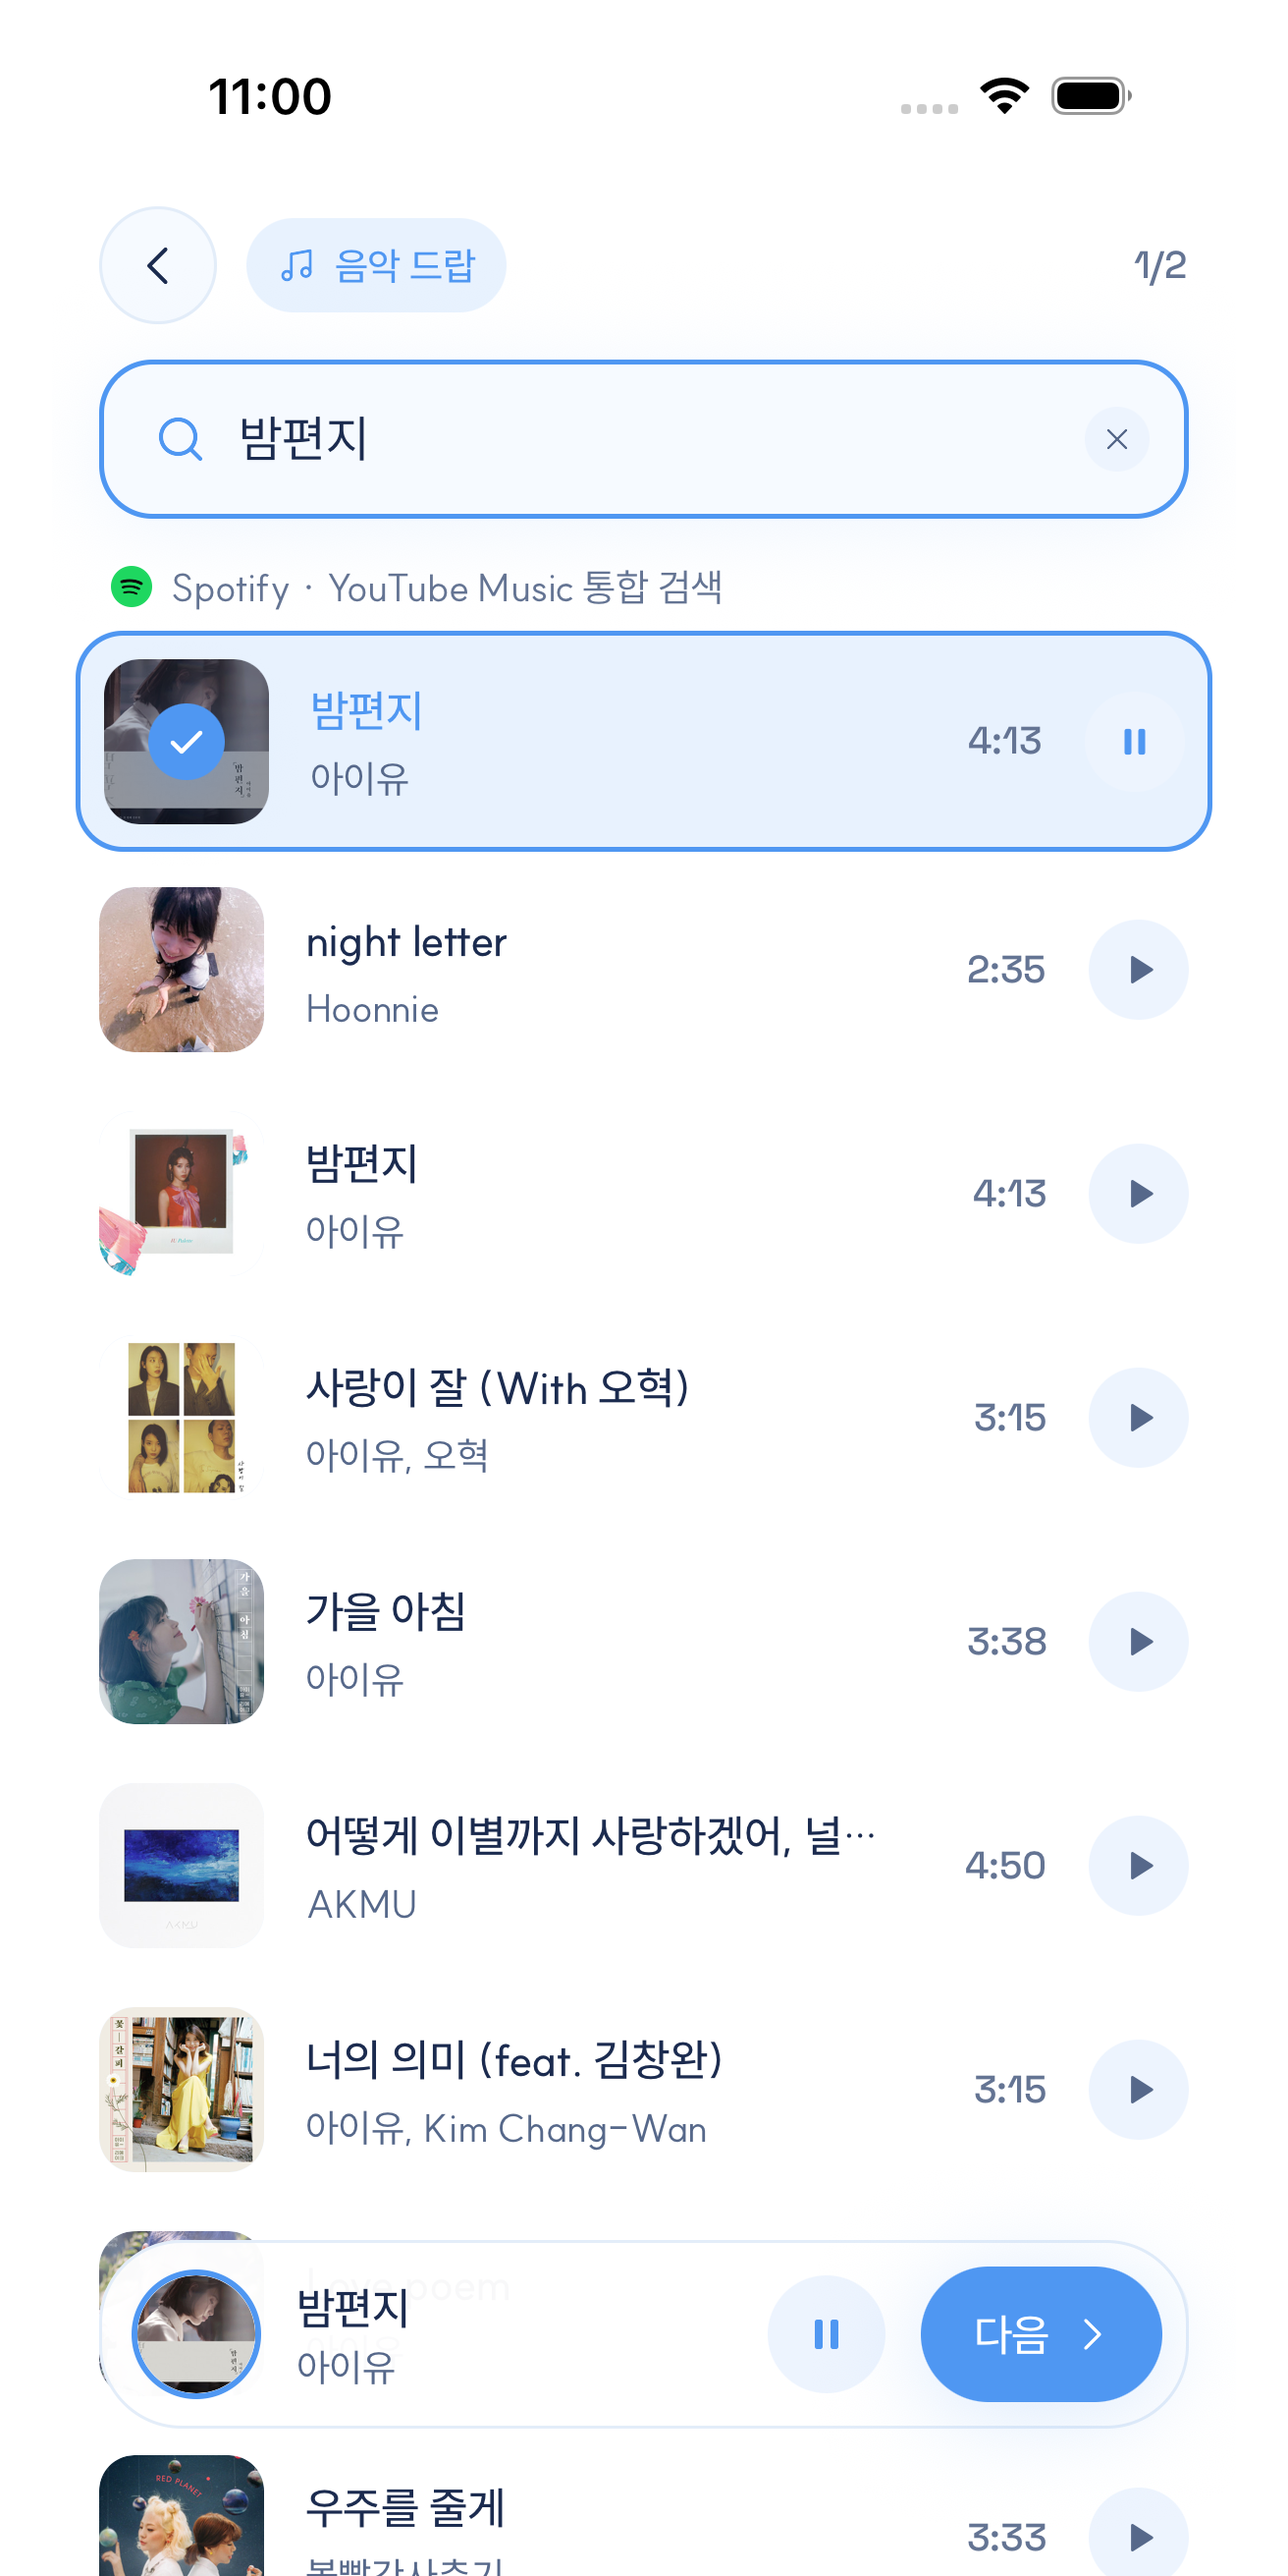
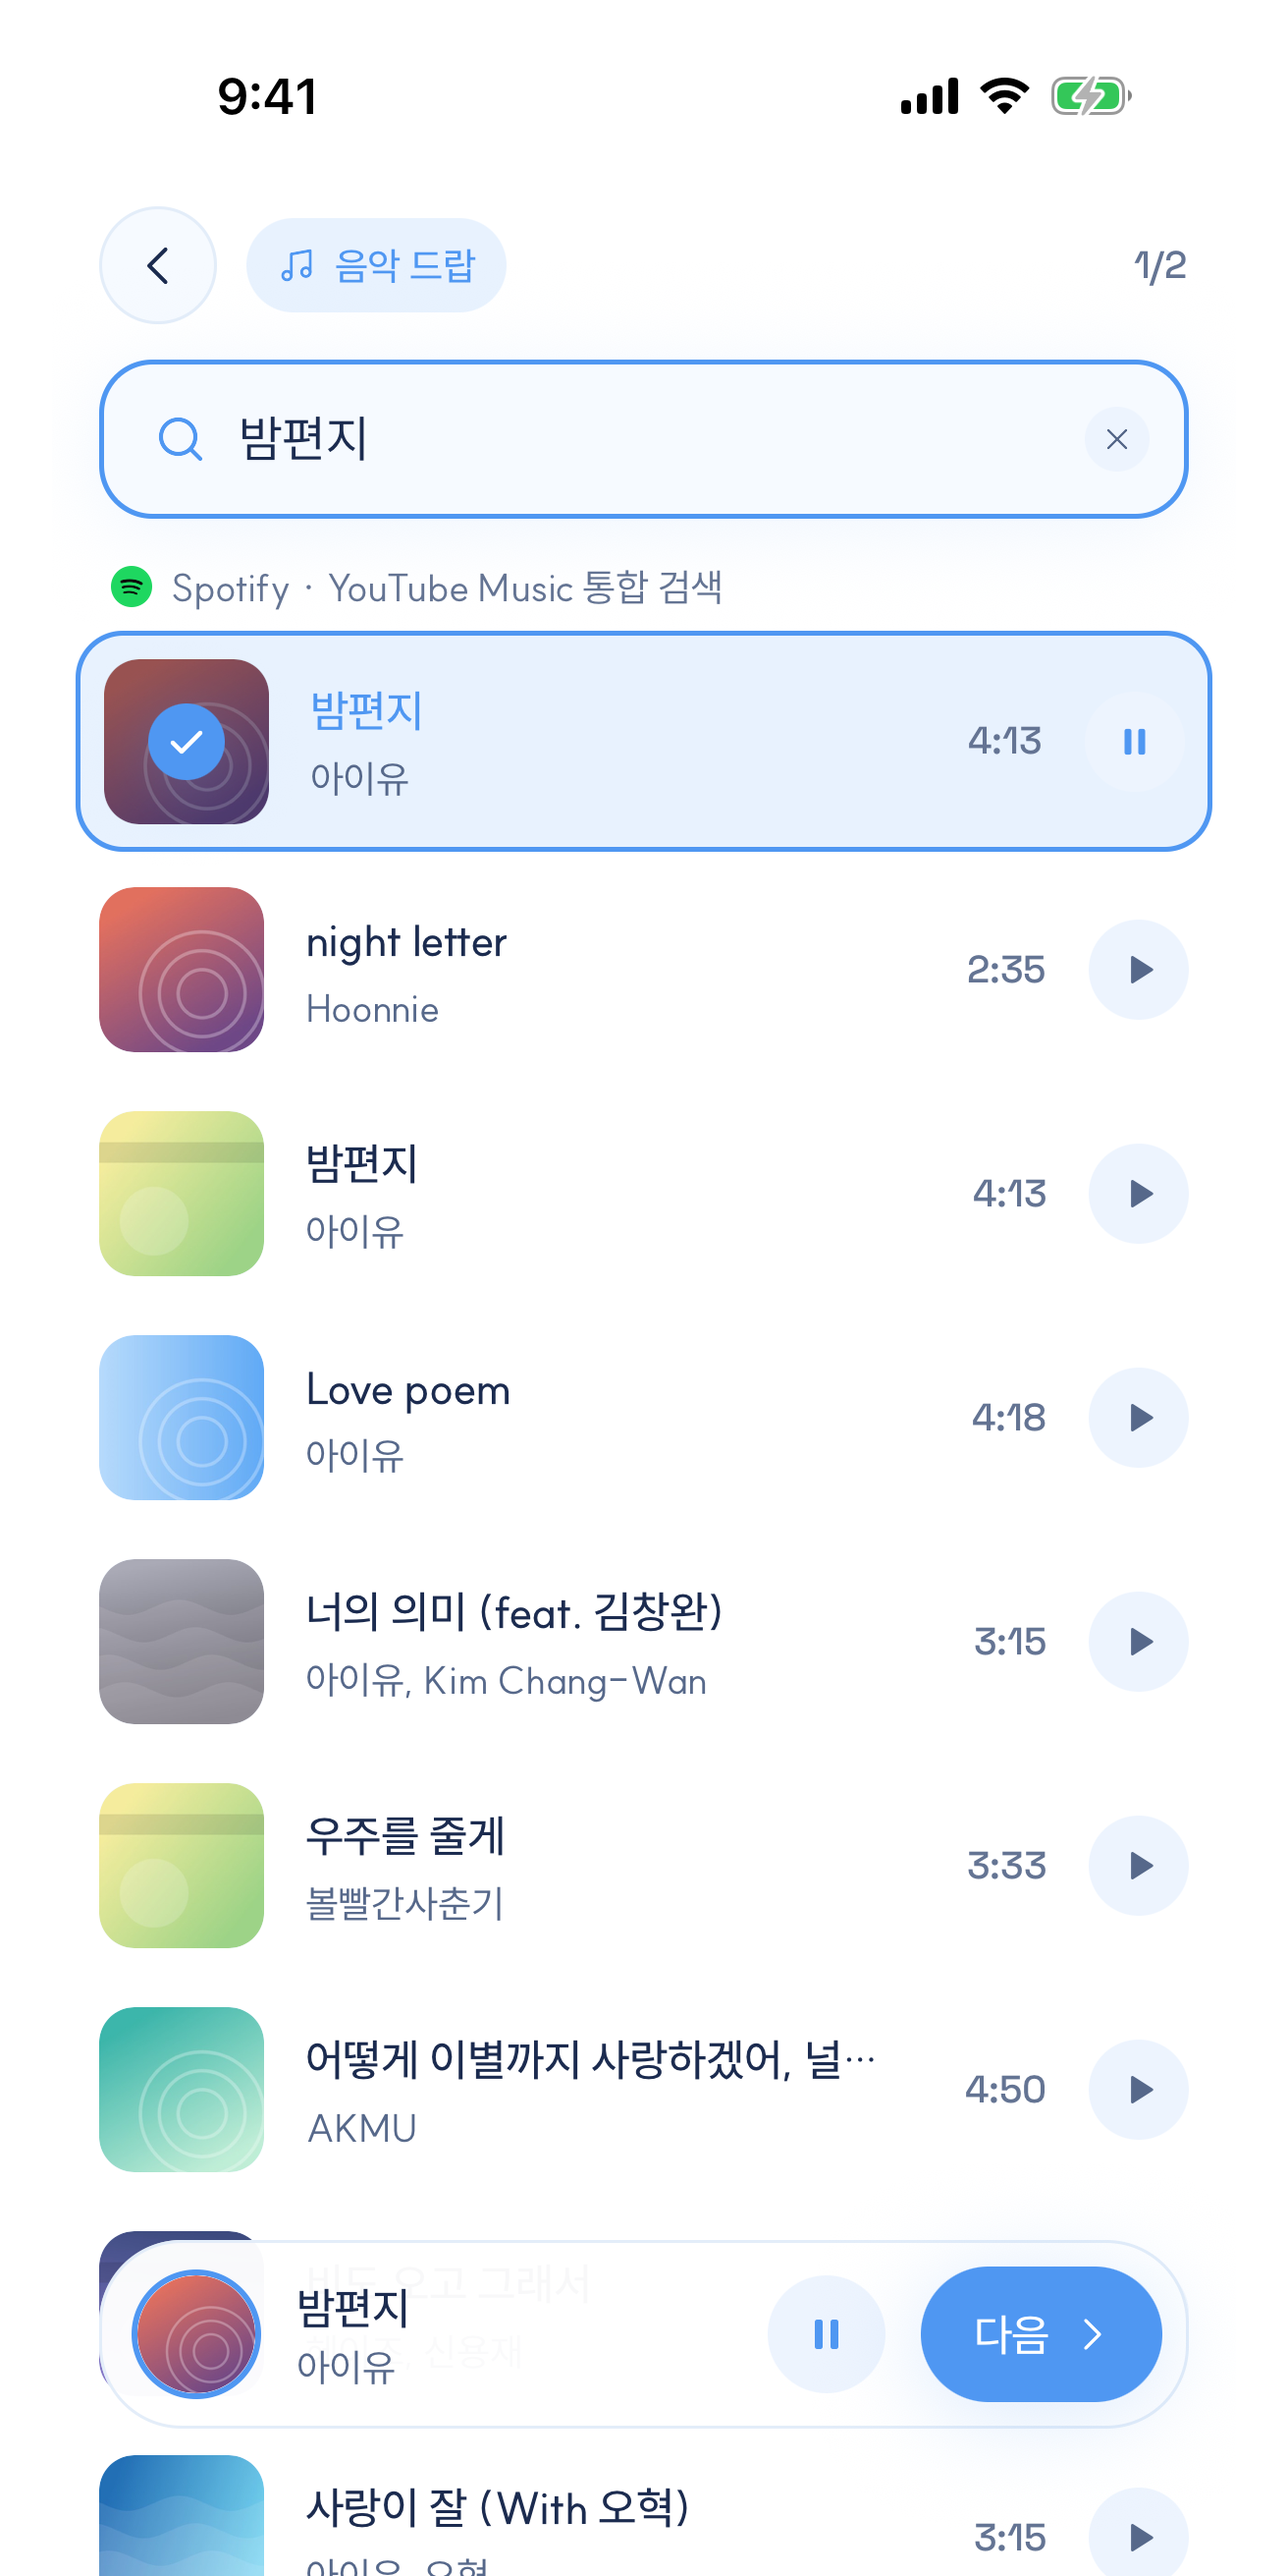
chore :: Play 출시 준비 (Android 패키지 com.paado.app, 스토어 스크린샷 교체, 제출 점검표)
- applicationId를 com.paado.app으로 변경 (com.pado.app은 다른 개발자가 사용 중). namespace는 com.pado.app 유지
- Play 스크린샷을 iOS 재심사용 가상 커버 장면으로 교체, 2:1 비율에 맞춰 좌우 여백
- store/play/submission-checklist.md: 콘솔 입력값, 데이터 보안, 등록한 OAuth·지도·카카오 키

diff --git a/store/play/submission-checklist.md b/store/play/submission-checklist.md
@@ -1,0 +1,191 @@
+# Google Play 첫 제출 점검표
+
+2026-10-28 기준입니다. Play Console 계정은 craftsmanship001(개인 계정, ID 8155530778794944269)이고, 앱 **파도 - PAADO**(패키지 `com.paado.app`, 앱 ID 4975668271305079182)를 만들었습니다.
+
+> `com.pado.app`은 이미 다른 개발자가 쓰고 있어 Android 패키지(applicationId)를 `com.paado.app`으로 바꿨습니다. Java 패키지(namespace)는 `com.pado.app` 그대로라 CI의 BuildConfig 경로는 바뀌지 않습니다.
+
+## 1. 지금 막혀 있는 것 (직접 해야 함)
+
+1~3번은 끝났습니다 (전화번호·기기 인증, 앱 만들기).
+
+| 순서 | 할 일 | 어디서 |
+|---|---|---|
+| 1 | **연락처 전화번호 인증** (조치 필요) | Play Console 홈 → "세부정보 보기" → 문자 인증 |
+| 2 | **Android 기기 액세스 확인** (조치 필요) | 실제 Android 폰에 Play Console 앱 설치 → 같은 계정으로 로그인 |
+| 3 | **앱 만들기** | 이름·언어·무료 입력, 정책 동의 체크 2개 (동의는 직접) |
+| 4 | **심사용 계정 만들기** | 실서버(api.paado.app)에 이메일 계정 1개 → "앱 액세스"에 아이디·비밀번호 입력 |
+
+### 개인 계정 조건: 비공개 테스트 14일
+
+2023-11-13 이후에 만든 개인 계정은 바로 프로덕션에 낼 수 없습니다.
+
+- 비공개 테스트에 **테스터 12명 이상이 14일 연속** 참여해야 "프로덕션 액세스 신청"이 열립니다.
+- 그래서 처음 내는 심사는 **비공개 테스트 트랙 심사**입니다.
+- 일정은 대략 이렇습니다.
+  1. 비공개 테스트 심사 (보통 며칠)
+  2. 14일 테스트
+  3. 프로덕션 액세스 신청 심사 (최대 7일 정도)
+  4. 프로덕션 심사
+- 테스터는 Google 계정 이메일 목록이나 Google 그룹으로 초대합니다. 12명을 미리 모아 두세요.
+
+## 2. 준비된 것
+
+### 업로드 파일: 패키지 변경 뒤 CI가 만드는 AAB (GitHub Release `build-<번호>`)
+
+`build-10`(`com.pado.app`)은 패키지가 달라 업로드할 수 없습니다. 아래 확인은 build-10 기준이고, 서명·SDK·권한은 새 빌드도 같습니다.
+
+| 항목 | 확인 결과 |
+|---|---|
+| 패키지 | `com.paado.app` |
+| 버전 | 1.0 (versionCode 10) |
+| 서명 | 업로드 키(`~/.pado/pado-upload.jks`), SHA-1 `00:E9:29:BA:…:6C:B7` 일치 |
+| 대상 SDK | targetSdk 36 (Android 16). 2026-08-31부터 새 앱에 필요한 수준 |
+| 서버 설정 | 실서버, CI가 목 모드 아님을 검사 |
+| 민감 권한 | 위치(포그라운드만), 미디어 재생 포그라운드 서비스만 해당. 백그라운드 위치·사진 권한(READ_MEDIA_*)·광고 ID 없음 |
+
+**주의할 점이 하나 있습니다.** 이 빌드에는 비밀번호 재설정이 들어 있습니다. AWS SES 프로덕션 승인이 안 났다면 인증 메일이 나가지 않습니다. Play 심사관이 이 기능을 눌러볼 가능성은 낮지만, 제출 전에 백엔드에 SES 상태를 확인하는 게 좋습니다.
+
+### 스토어 이미지 (`store/play/`)
+
+| 자산 | 상태 |
+|---|---|
+| 앱 아이콘 `icon-512.png` | 512×512, iOS 아이콘과 같음 |
+| 그래픽 이미지 `feature-graphic.png` | 1024×500. 예전 다크 톤이지만 아이콘과 어울려서 그대로 써도 됩니다 |
+| 휴대전화 스크린샷 `screenshots/` 8장 | **오늘 교체.** 실제 앨범 커버가 들어간 예전 장면을 iOS 재심사용 새 스크린샷(자체 제작 추상 아트)으로 바꿨습니다. Play 비율 한도(2:1)에 맞추려고 1312×2622로 좌우에 흰 여백을 넣었습니다 |
+
+## 3. 콘솔 입력값
+
+### 기본 정보
+
+- 앱 이름(30자): `파도 - PAADO`
+  - App Store와 같습니다. Play는 이름이 겹쳐도 되니 `PADO - 거리에 남기는 음악`도 가능합니다.
+- 기본 언어: 한국어(ko-KR)
+- 앱/게임: 앱
+- 무료/유료: 무료
+- 카테고리: 음악 및 오디오
+- 연락처 이메일: `seo@paado.app`
+- 웹사이트: `https://paado.app`
+- 개인정보 처리방침: `https://paado.app/privacy`
+
+### 간단한 설명 (80자)
+
+```
+지금 서 있는 곳에 좋아하는 곡을 남기고, 주변에 남겨진 음악을 지도에서 발견해요.
+```
+
+### 자세한 설명
+
+예전 등록 시트에 있던 "알림으로 알려 드려요"는 고쳤습니다. 앱에 푸시 알림이 없기 때문입니다. 반응은 앱 안의 알림 탭에서만 보입니다.
+
+```
+거리에 음악을 흘려두고, 누군가의 하루에 닿게.
+
+파도(PAADO)는 지금 서 있는 자리에 좋아하는 곡을 남기는 위치 기반 음악 앱이에요. 산책길, 단골 카페, 퇴근길 정류장에 어울리는 곡을 드랍하면, 근처를 지나는 사람이 지도에서 발견하고 들을 수 있어요.
+
+■ 드랍
+· 곡을 검색해 지금 위치에 남겨요. 한 줄 메모를 함께 적을 수 있어요.
+· 두 곡을 놓고 투표를 열거나, 플레이리스트를 통째로 남길 수도 있어요.
+
+■ 발견
+· 지도에서 내 주변에 남겨진 드랍을 확인해요.
+· 30초 미리듣기로 바로 듣고, 마음에 들면 Spotify · Apple Music · YouTube Music에서 전체 곡을 이어 들어요.
+· 미리듣기는 화면을 끄거나 다른 앱으로 넘어가도 이어서 재생돼요.
+
+■ 반응
+· 좋아요, 댓글, 투표로 드랍을 남긴 사람과 이야기를 나눠요.
+· 내 드랍에 온 반응은 알림 탭에서 모아 볼 수 있어요.
+
+■ 안전하게
+· 불편한 드랍이나 댓글은 신고하고, 사용자를 차단할 수 있어요.
+
+미리듣기는 Apple Music에서 제공해요. 파도는 음원을 저장하거나 전체 곡을 재생하지 않아요.
+파도는 만 14세 이상 이용할 수 있어요.
+문의: seo@paado.app
+```
+
+### 앱 콘텐츠
+
+| 항목 | 답 |
+|---|---|
+| 개인정보처리방침 | `https://paado.app/privacy` |
+| 광고 | 광고 없음 |
+| 앱 액세스 | 일부 기능 제한 → 로그인 필요. 아래 안내문과 심사용 계정 |
+| 광고 ID | 사용 안 함 (매니페스트에 AD_ID 권한 없음) |
+| 타겟층 | 13~15세, 16~17세, 18세 이상 (만 14세 이상 가입. 13세 미만이 없어 가족 정책 대상 아님) |
+| 콘텐츠 등급 (IARC) | 아래 표 |
+| 뉴스·금융·건강·정부·코로나19 | 모두 아니요 |
+| 포그라운드 서비스 | 미디어 재생 신고 (아래). 동작 영상 링크가 필요합니다 |
+
+앱 액세스 안내문은 다음과 같습니다.
+
+```
+첫 화면에서 '이메일로 로그인'을 눌러 아래 계정으로 로그인해 주세요. 위치 권한을 허용하면 지도에 주변 드랍이 보입니다. 주변에 드랍이 없으면 아래 가운데 + 버튼으로 곡을 검색해 현재 위치에 드랍을 남길 수 있습니다.
+```
+
+콘텐츠 등급(IARC) 답변입니다.
+
+- 카테고리: 기타 앱 유형
+- 폭력·성적 콘텐츠·욕설·약물·도박: 모두 아니요
+- 사용자 간 상호작용·콘텐츠 공유: **예** (댓글, 드랍 메모)
+- 사용자 위치 공유: **예** (드랍 위치가 다른 회원에게 보임)
+- 디지털 상품 구매: 아니요
+
+포그라운드 서비스(미디어 재생) 설명입니다.
+
+```
+사용자가 지도에서 다른 사람이 남긴 곡을 눌러 30초 미리듣기를 시작하면, 화면을 끄거나 다른 앱으로 전환해도 재생이 이어지도록 미디어 재생 포그라운드 서비스를 사용합니다. 재생 중에는 미디어 알림이 표시되고, 사용자는 알림에서 일시정지·재개할 수 있습니다. 재생이 끝나거나 사용자가 멈추면 서비스가 종료됩니다.
+```
+
+동작 영상(30초 정도)에는 다음이 들어가면 됩니다.
+
+1. 미리듣기 시작
+2. 홈으로 나가기
+3. 알림창에서 일시정지·재개
+
+YouTube 일부 공개 링크나 Drive 링크로 냅니다.
+
+### 데이터 보안
+
+전체 답변은 이렇습니다.
+
+- 수집함
+- 제3자 공유 안 함
+  - AWS(서버·메일 발송)와 Amplitude(분석)는 서비스 제공업체라서 공유가 아닙니다.
+  - 드랍 위치와 닉네임은 사용자가 직접 공개하는 것이라 공유가 아닙니다.
+- 전송 중 암호화: 예
+- 삭제 요청: 예. 앱 설정 → 회원 탈퇴, 웹 `https://paado.app/delete-account`
+
+| 데이터 유형 | 필수/선택 | 목적 |
+|---|---|---|
+| 위치 · 정확한 위치 | 필수 | 앱 기능 (분석은 동의 시에만) |
+| 개인 정보 · 이름(닉네임) | 필수 | 앱 기능, 계정 관리 |
+| 개인 정보 · 이메일 주소 | 필수 | 계정 관리 (비밀번호 재설정 메일 포함) |
+| 개인 정보 · 사용자 ID | 필수 | 계정 관리 |
+| 개인 정보 · 기타 (생년월일 필수, 성별 선택) | 필수 | 계정 관리(만 14세 확인) |
+| 사진 · 사진 | 선택 | 앱 기능 (프로필 사진) |
+| 앱 활동 · 인앱 검색 기록 | 필수 | 앱 기능 (곡 검색) |
+| 앱 활동 · 기타 사용자 제작 콘텐츠 | 필수 | 앱 기능 (드랍·메모·댓글·투표·플레이리스트) |
+| 앱 활동 · 앱 상호작용 | 선택 | 분석 (기본 꺼짐, 설정 → 이용 데이터 분석을 켠 경우만) |
+| 앱 정보 및 성능 · 진단 | 선택 | 분석 (위와 같음) |
+| 기기 또는 기타 ID | 선택 | 분석 (Amplitude 기기 ID, 광고 ID 아님) |
+
+## 4. 새 패키지·서명 키 등록 (2026-10-28 완료)
+
+Play는 앱 서명 키로 다시 서명합니다. 앱 서명 키 SHA-1은 `E8:26:58:C4:3D:3F:D9:FD:55:FA:C6:C6:3C:96:EC:26:25:3B:BD:41`, 디버그 키 SHA-1은 `5E:8F:16:06:2E:A3:CD:2C:4A:0D:54:78:76:BA:A6:F3:8C:AB:F6:25`입니다.
+
+- 값은 Play Console → 테스트 및 출시 → 앱 무결성 → 앱 서명에 나옵니다.
+- 업로드 키 SHA-1 `00:E9:29:BA:29:94:D6:4B:FF:2B:7C:3F:E6:FF:97:AB:F3:8C:6C:B7`도 같이 넣어 둡니다.
+
+| 어디 | 무엇 |
+|---|---|
+| Google Cloud `pado-510105` | `com.paado.app` Android OAuth 클라이언트 3개 (Play 앱 서명 / 업로드 키 / 디버그 키) |
+| Google Cloud `pado-android-maps` | 허용 목록에 `com.paado.app` + 위 SHA-1 3개 |
+| 카카오 (RE:MEDY 앱의 PADO 네이티브 키) | 패키지명 `com.paado.app`, 키 해시 `6CZYxD0/2f1V+sbGPJbsJiU7vUE=` · `AOkpuimU1kv/K3w/5v+Xq/OMbLc=` · `Xo8WBi6jzSxKDVR4drqm84yr9iU=` |
+
+## 5. 제출 순서 (막힌 것이 풀린 뒤)
+
+1. 앱 만들기 → 위 3장 입력값 채우기
+2. 테스트 및 출시 → 비공개 테스트 → 트랙 만들기 → 테스터 12명 이상 추가
+3. 새 버전 → 패키지 변경 뒤 CI AAB 업로드 → 출시 노트 "첫 비공개 테스트 버전"
+4. 검토를 위해 변경사항 보내기 (**직접 확인 후 제출**)
+5. 14일 뒤 프로덕션 액세스 신청
